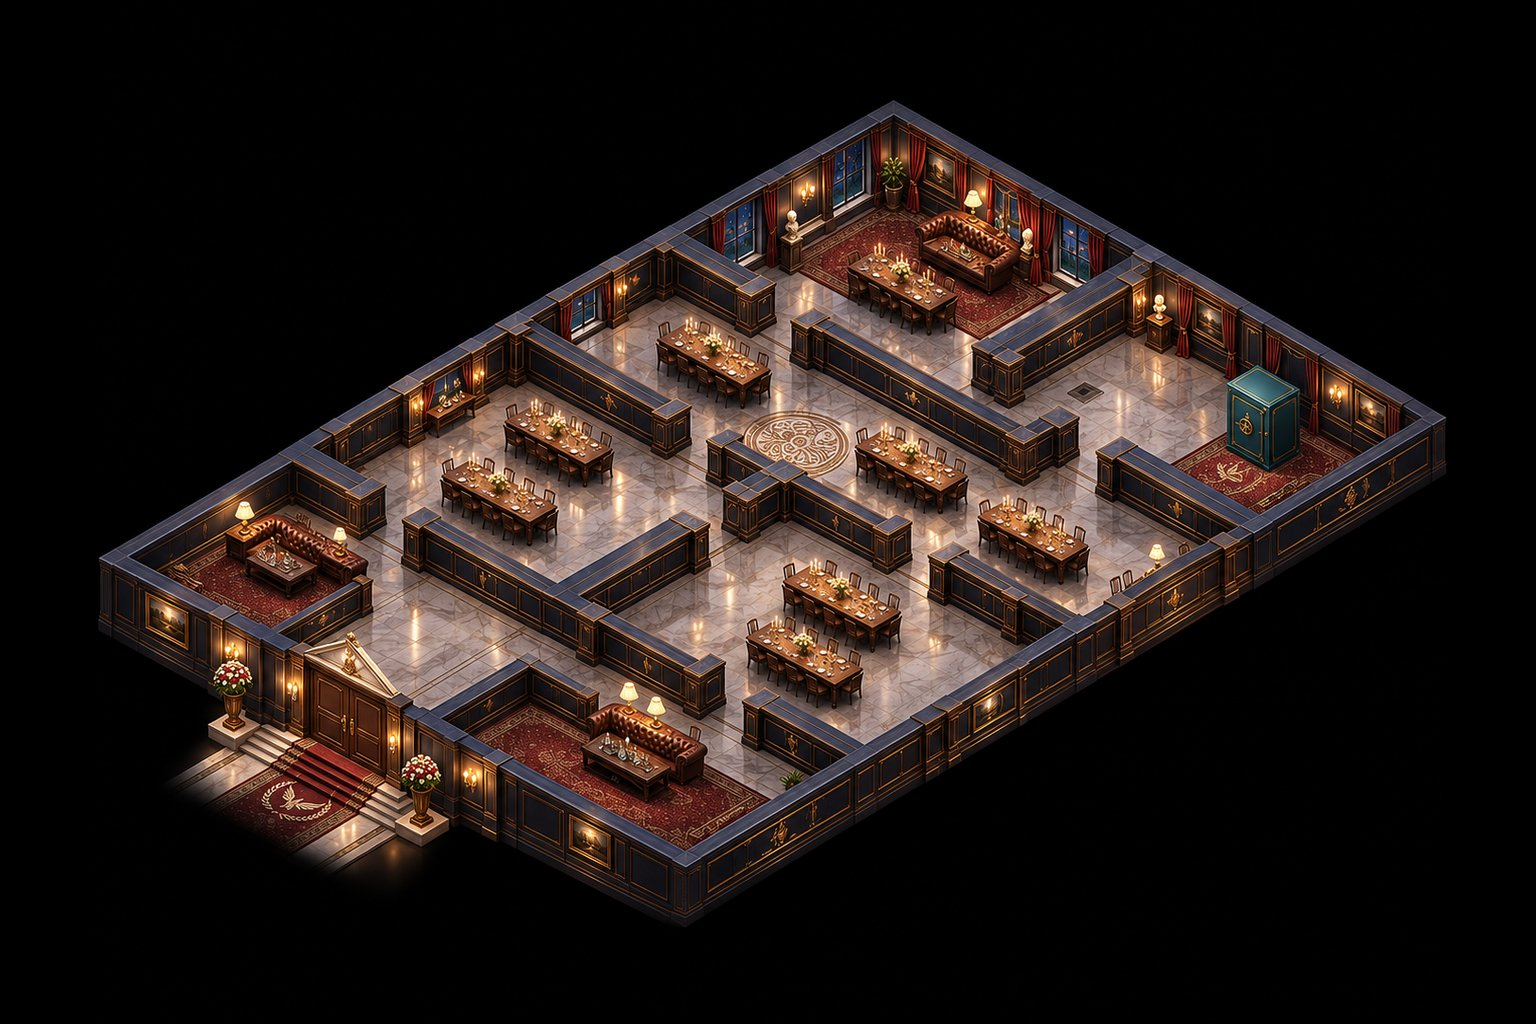
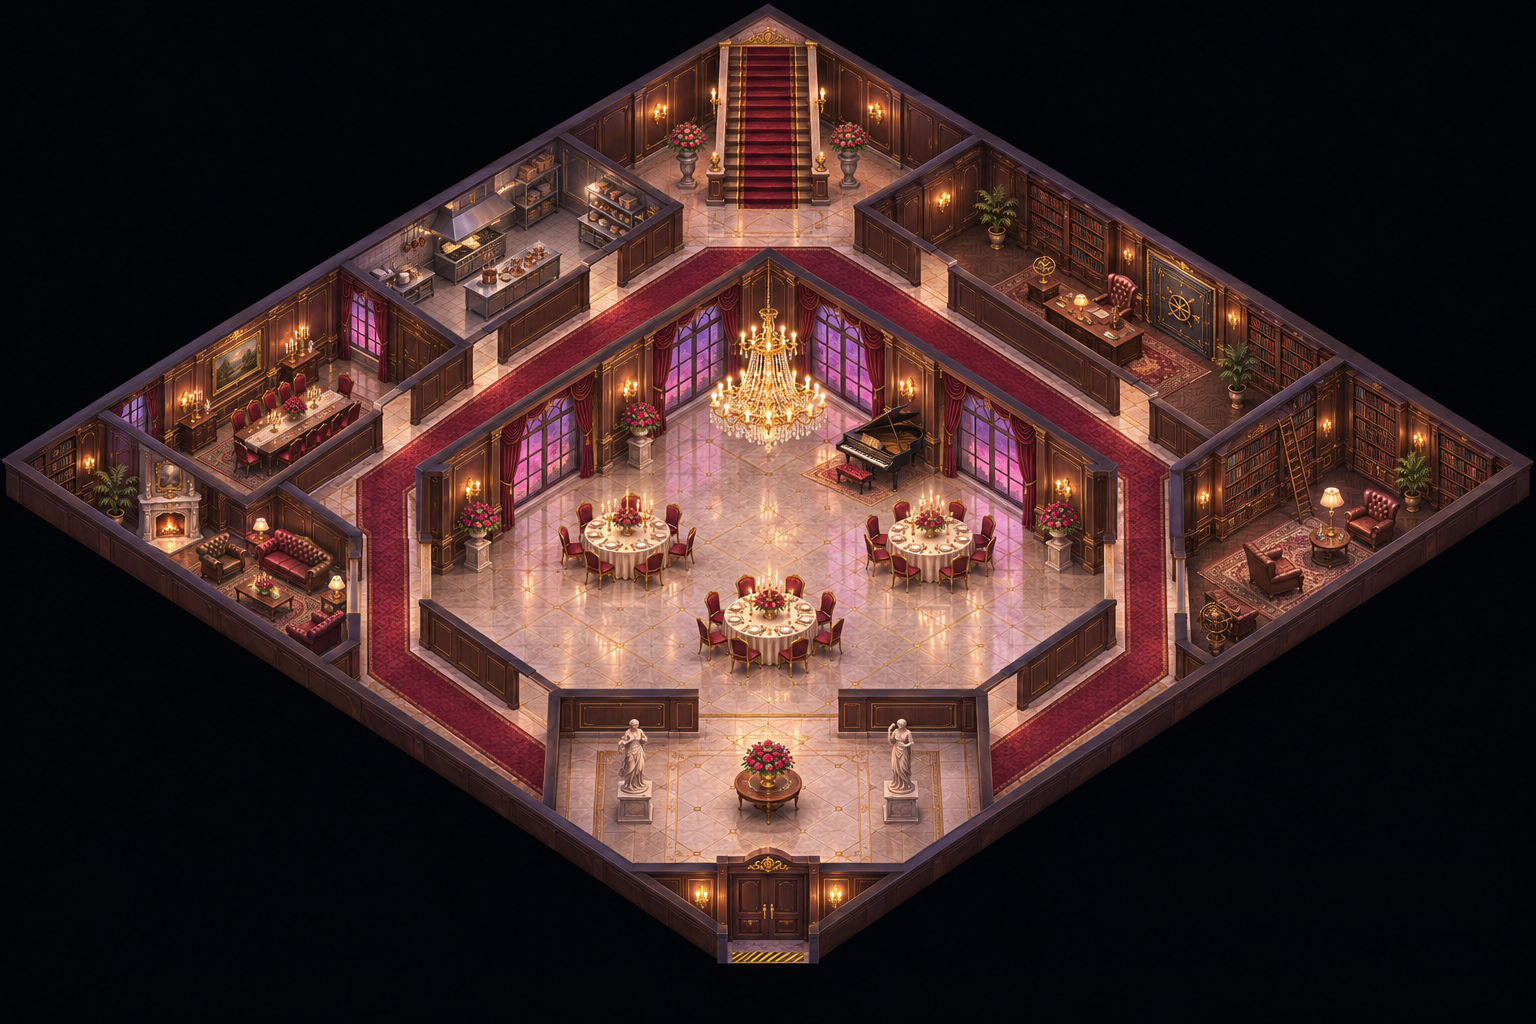
Story stage 5: new mansion map applied
Claude-Session: https://claude.ai/code/session_01YWSFXRBaK3zkDDX76dUHdx

diff --git a/public/index.html b/public/index.html
@@ -681,9 +681,11 @@ var MIS=[
  guards:[{wps:[[1,16],[14,16]]},{wps:[[1,10],[6,10],[6,13],[1,13]]},{wps:[[9,10],[14,10],[14,13],[9,13]]},{wps:[[1,6],[14,6],[14,8],[1,8]]},{wps:[[14,1]],faces:[PI,HP],ft:6.5},{wps:[[1,1],[6,1],[6,4],[1,4]]}],
  brief:'<ul>'+RULES+'<li>노란 벽은 약한 벽이다. 브릭의 <b>돌파</b>로 부수면 새 길이 열린다.</li><li>돌파는 7칸까지 소리가 퍼진다. 적이 몰려오기 전에 움직여라.</li><li>브릭은 맨손 제압도 한다. 바이퍼는 멀리서 길을 정리한다.</li></ul>'},
 {title:'가면 무도회',code:'MISSION 05 // MIRAGE + GLITCH',copy:'오늘은<br>손님으로 간다.',pre:'후원자 저택 파티. 서재 금고에 장부가 있다. 연회장엔 워든이 직접 와 있다.',post:['장부 챙겼다.','나오는 길에 워든이랑 눈이 마주쳤다.'],img:'p_mirage.jpg',
- goal0:'서재의 장부를 회수하라',goal1:'두 명 모두 현관으로 복귀',bg:'bg5.jpg',sk:0.44,wake:90,opaque:'#',hts:{'#':46,'C':24,'X':70},proj:[35.73820518086548, -35.28432831810366, 872.829650092081, 19.473989899880245, 20.363967998516184, 141.4364640883978, 5.849819187406741e-05, -0.001400088955928146, 1.0],MAP:["################", "#..CC...#......#", "#.......#....X.#", "#C.CCC..#......#", "#.......#.....K#", "#.........#.####", "###.#######...C#", "#CCC...CCC.CC..#", "#..............#", "#..............#", "#####.#####.####", "#CCC...#.CCC...#", "#..............#", "#.CC...#..CCC..#", "#......#.......#", "#......#.......#", "##.########.####", "#C.......CC....#", "#CC.....##CC...#", "#...#...#......#", "#...#...#......#", "################"],
- ops:[{id:'mirage',x:5,y:19},{id:'glitch',x:6,y:19}],exit:[[5,20],[6,20],[7,20],[5,19],[6,19],[7,19]],objective:{x:13,y:2,use:[13,3],label:'금고',verb:'회수',time:4},
- guards:[{wps:[[1,8],[14,8],[14,9],[1,9]],boss:true},{wps:[[1,12],[6,12],[6,15],[1,15]]},{wps:[[8,12],[14,12],[14,15],[8,15]]},{wps:[[1,5],[9,5]]},{wps:[[14,4]],cam:true,faces:[-2.67,1.57],ft:10}],
+ goal0:'서재의 장부를 회수하라',goal1:'두 명 모두 현관으로 복귀',bg:'bg5.jpg',sk:0.44,wake:90,opaque:'#B',hts:{'#':44,'B':40,'C':22,'X':50},
+ proj:[36.819522248, -36.331903201, 768.0, 21.890826125, 21.859015144, 50.0, 0.000348894, 0.000286027, 1.0],
+ MAP:["#####################", "#BBBB#.C....X.C#....#", "#BBBB#....CC...#..C.#", "#BBBB#.........#.C..#", "#BBBB.##.#####.#...C#", "####.............#.C#", "#.C.#.##########..#.#", "#C..#.#....C...C#...#", "#C....#....CC....#..#", "#C..#.#......CC...#.#", "#.C.#.#......CC...#.#", "#####.#C..........#.#", "#...#.#.....CC....#.#", "#.C...#..CC.CC....#.#", "#.C.#.#..CC......#..#", "#.C.#.#C...........C#", "#...#..#............#", "######..#.....#..C..#", "#.....#..#####......#", "#..C.C.........C....#", "#####################"],
+ ops:[{id:'mirage',x:19,y:19},{id:'glitch',x:18,y:18}],exit:[[19,19],[18,18],[18,19],[19,18]],objective:{x:12,y:1,use:[12,2],label:'금고',verb:'회수',time:4},
+ guards:[{wps:[[8,8],[13,11],[10,15]],boss:true},{wps:[[5,7],[5,12]]},{wps:[[17,11]],faces:[1.57,-1.57],ft:6},{wps:[[5,5]],cam:true,faces:[0,1.57],ft:9}],
  brief:'<ul>'+RULES+'<li>미라주의 <b>변장</b>: 경비병은 1.5칸 안까지 붙지 않으면 알아보지 못한다. 달리면 풀린다.</li><li>카메라와 <b>워든</b>은 변장을 꿰뚫어 본다. 워든은 제압도, 총도 통하지 않는다.</li><li>글리치의 해킹으로 카메라를 끄고, 교란으로 워든의 발길을 돌려라.</li></ul>'},
 {title:'마지막 한 명',code:'MISSION 06 // RAVEN + DOC',copy:'한 명도<br>안 두고 간다.',pre:'헤일로스 격리 병동. 우리 쪽 정보원이 총을 맞고 누워 있다. 걸어 나오게 만들 사람은 닥뿐이다.',post:['정보원은 제 발로 걸어 나왔다.','여섯이 다 모였다. 이제 누가 흘렸는지 찾는다.'],img:'p_doc.jpg',
  goal0:'닥이 정보원을 응급 처치하라',goal1:'두 명 모두 진입 지점으로 복귀',bg:'bg6.jpg',sk:0.44,wake:90,opaque:'#',hts:{'#':54,'C':22,'X':22,'K':54},proj:[33.510316141, -36.241147482, 780.0, 20.023992048, 20.96601169, 66.0, -0.002106793, -0.000160644, 1.0],MAP:["#####################", "#...#CCC#C..#K..C.C.#", "#.......#...#..CX...#", "#...#...............#", "#...##.######.#######", "#...#......CC.......#", "#...#...............#", "#...#C..#...........#", "#...#...###.######..#", "#.......#CC...#...C.#", "#####...####..#.C....", "#..C.#..#CCC..#.C...#", "#.C..#..#CCC..#.....#", "#.C..#C.CCC...#.C...#", "#....#C.CCC...#.C...#", "#.C..#........#.....#", "#.C.......C...#######", "#...................#", "######..#####.......#", "#.......#C.C........#", "######..###########.#"],

diff --git a/tools/map/trace_story/ins.py b/tools/map/trace_story/ins.py
@@ -1,12 +1,13 @@
 import io,json,re,shutil,sm,st
 G={1:"[{wps:[[5,5],[5,13]]},{wps:[[7,5],[15,5]]},{wps:[[9,9],[9,15]]},{wps:[[14,6],[14,9]]},{wps:[[13,13]],faces:[3.14,-1.57],ft:5},{wps:[[14,5]],faces:[1.57,3.14],ft:5}]",
    2:"[{wps:[[12,8],[15,8]]},{wps:[[6,9],[6,14]]},{wps:[[10,15],[16,15]]},{wps:[[19,16]],faces:[3.14,-1.57],ft:5},{wps:[[7,3],[7,7]]}]",
+   5:"[{wps:[[8,8],[13,11],[10,15]],boss:true},{wps:[[5,7],[5,12]]},{wps:[[17,11]],faces:[1.57,-1.57],ft:6},{wps:[[5,5]],cam:true,faces:[0,1.57],ft:9}]",
    3:"[{wps:[[5,8],[5,15]]},{wps:[[7,10],[7,15]]},{wps:[[14,6],[14,10]]},{wps:[[13,14]],faces:[3.14,-1.57],ft:5},{wps:[[7,2]],cam:true,faces:[-0.9,1.5],ft:12},{wps:[[1,15]],cam:true,faces:[0,-0.9],ft:6}]"}
-OPS={1:['raven'],3:['raven','glitch'],2:['raven','viper']}
-EXIT={2:'[[13,23],[14,23],[15,23],[16,23],[13,22],[14,22],[15,22],[16,22]]'}
-HTS={2:"{'#':40,'B':34,'C':20,'X':40}"}
-OPQ={2:'#B'}
-TITLE={1:'혼자 남은 사람',3:'눈이 되는 자',2:'원거리 지원'}
+OPS={1:['raven'],3:['raven','glitch'],2:['raven','viper'],5:['mirage','glitch']}
+EXIT={5:'[[19,19],[18,18],[18,19],[19,18]]',2:'[[13,23],[14,23],[15,23],[16,23],[13,22],[14,22],[15,22],[16,22]]'}
+HTS={5:"{'#':44,'B':40,'C':22,'X':50}",2:"{'#':40,'B':34,'C':20,'X':40}"}
+OPQ={2:'#B',5:'#B'}
+TITLE={1:'혼자 남은 사람',3:'눈이 되는 자',2:'원거리 지원',5:'가면 무도회'}
 def install(ns):
     p='/home/claude/silent_six/public/index.html';s=io.open(p,encoding='utf8').read()
     for n in ns:

diff --git a/tools/map/trace_story/sm.py b/tools/map/trace_story/sm.py
@@ -54,6 +54,18 @@ put(M,[(5,8),(6,8),(7,8),(8,8),(8,9),(9,9),(3,7),(5,11),(5,12),(5,13),(5,14),(8,
 M[6][12]='#'
 put(M,[(17,8),(18,8),(19,8),(20,8),(21,8),(8,21)],'#')
 OUT[2]=dict(MAP=M,start=[(14,23),(15,23)],use=(10,3),obj=(10,2))
+# ---------- 5 mansion (new art)
+M=blank(5)
+put(M,R(0,0,20,0)+R(0,0,0,20),'#')
+put(M,R(6,6,15,6)+R(6,6,6,15)+[(7,16),(8,17),(9,18),(10,18),(11,18),(12,18),(13,18),(14,17),(16,7),(17,8),(18,9),(18,10),(18,11),(18,12),(18,13),(17,14),(13,19),(19,13)],'#')
+put(M,R(1,5,3,5)+R(5,1,5,3)+R(4,6,4,16)+R(1,11,3,11)+R(1,17,4,17)+[(5,17),(6,18),(7,19),(8,20)]+R(6,4,15,4)+R(15,1,15,3)+[(17,5),(18,6),(19,7),(20,8)],'#')
+put(M,[(4,8),(4,13),(8,4),(14,4),(7,19),(19,7)],'.')
+put(M,R(1,1,4,4),'B')
+put(M,[(9,13),(10,13),(9,14),(10,14),(12,12),(13,12),(12,13),(13,13),(13,9),(14,9),(13,10),(14,10),(11,7),(11,8),(12,8),(7,15),(15,7),(7,11),(15,19),(19,15),(17,17)],'C')
+put(M,[(1,7),(1,8),(1,9),(2,6),(2,10),(2,13),(2,14),(2,15),(3,19),(5,19),(6,20),(10,2),(11,2),(7,1),(14,1),(18,2),(19,4),(19,5),(17,3)],'C')
+put(M,R(0,20,20,20)+R(20,0,20,20),'#');put(M,[(13,19),(19,13)],'.')
+M[1][12]='X'
+OUT[5]=dict(MAP=M,start=[(19,19),(18,18)],use=(12,2),obj=(12,1))
 if __name__=='__main__':
     import sys
     for n in map(int,sys.argv[1:]):show(n)

diff --git a/tools/map/trace_story/st.py b/tools/map/trace_story/st.py
@@ -42,5 +42,5 @@ def setgrid(n,ox,oy,c,r,h=46):
 def H(n):
     return OFF[n][2] if n in OFF else _H0(n)
 setgrid(4,-2,-5,25,31)
-setgrid(5,-3,-5,27,29)
+CFG[5]=(21,21,44,(768,6),(5,462),(1530,462),(768,912))
 setgrid(2,-2,-3,23,25,h=0)
